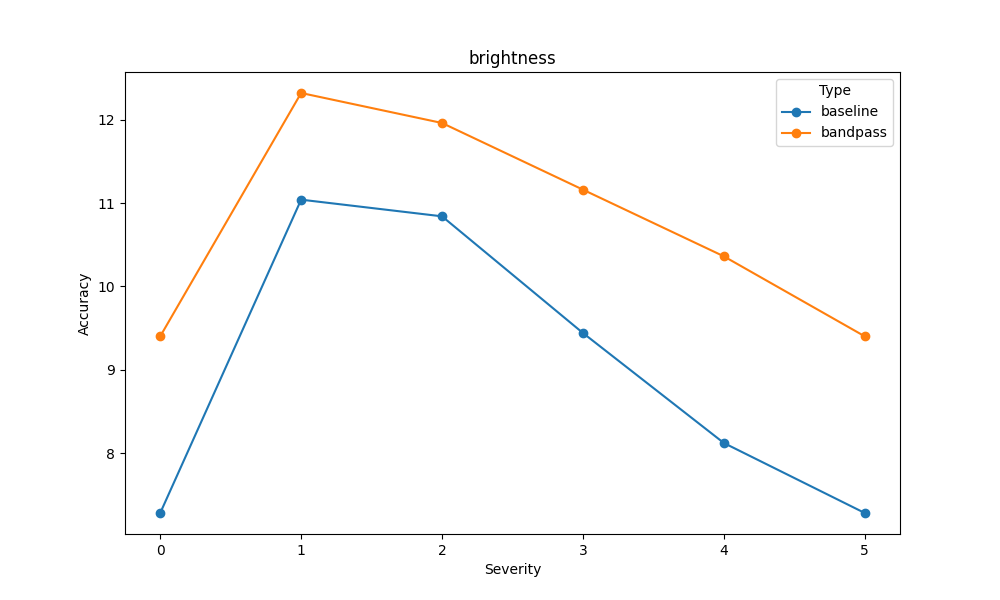
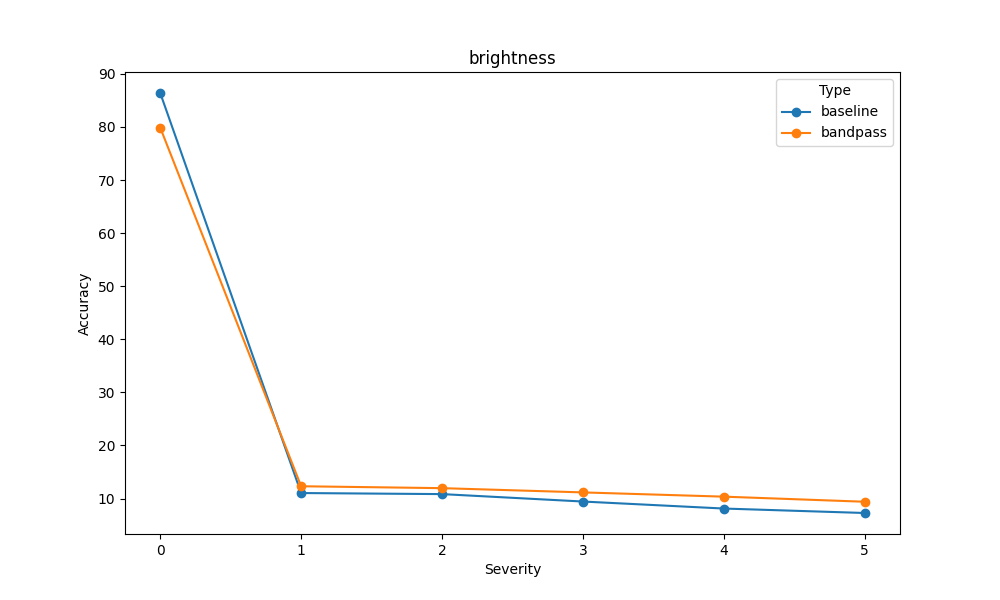
update plot

diff --git a/attack.py b/attack.py
@@ -207,12 +207,18 @@ def main():
                     f"clean accuracy:  {(original_acc_sum / n * 100):.2f}, "
                     f"perturbed accuracy: {(perturb_accs / n * 100):.2f}"
                 )
-
-                result = {
-                    "severity": severity,
-                    "clean_acc": original_acc_sum / n * 100,
-                    "perturb_acc": perturb_accs / n * 100,
-                }
+                if severity == 0:
+                    result = {
+                        "severity": severity,
+                        "clean_acc": original_acc_sum / n * 100,
+                        "perturb_acc": original_acc_sum / n * 100,
+                    }
+                else:
+                    result = {
+                        "severity": severity,
+                        "clean_acc": original_acc_sum / n * 100,
+                        "perturb_acc": perturb_accs / n * 100,
+                    }
                 results_per_type["plot"].append(result)
 
             results.append(results_per_type)
